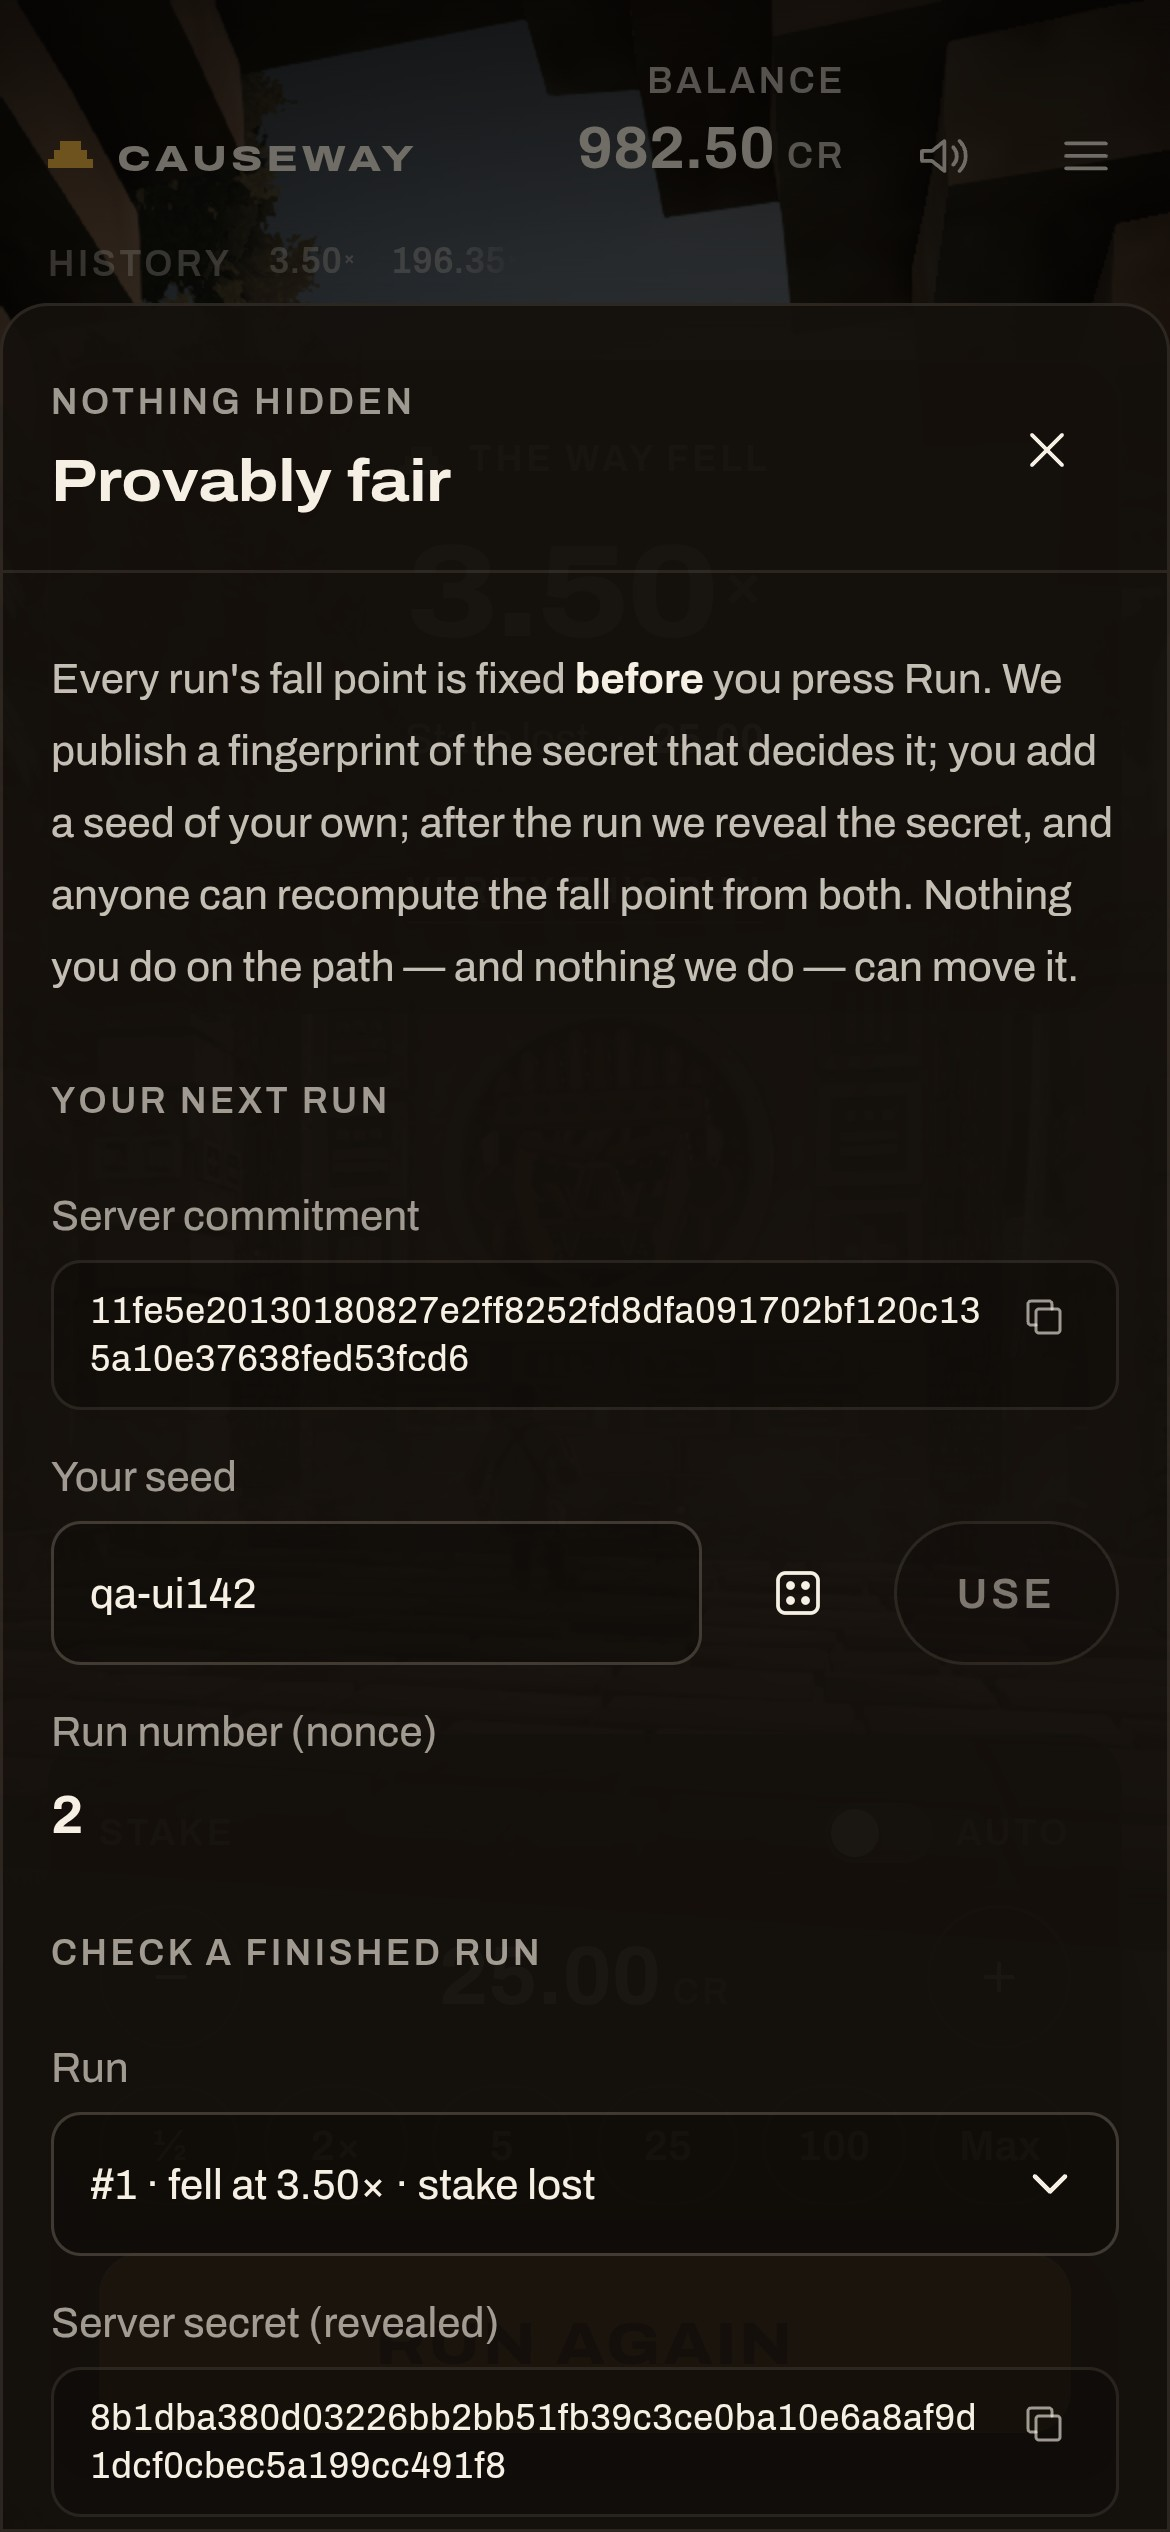
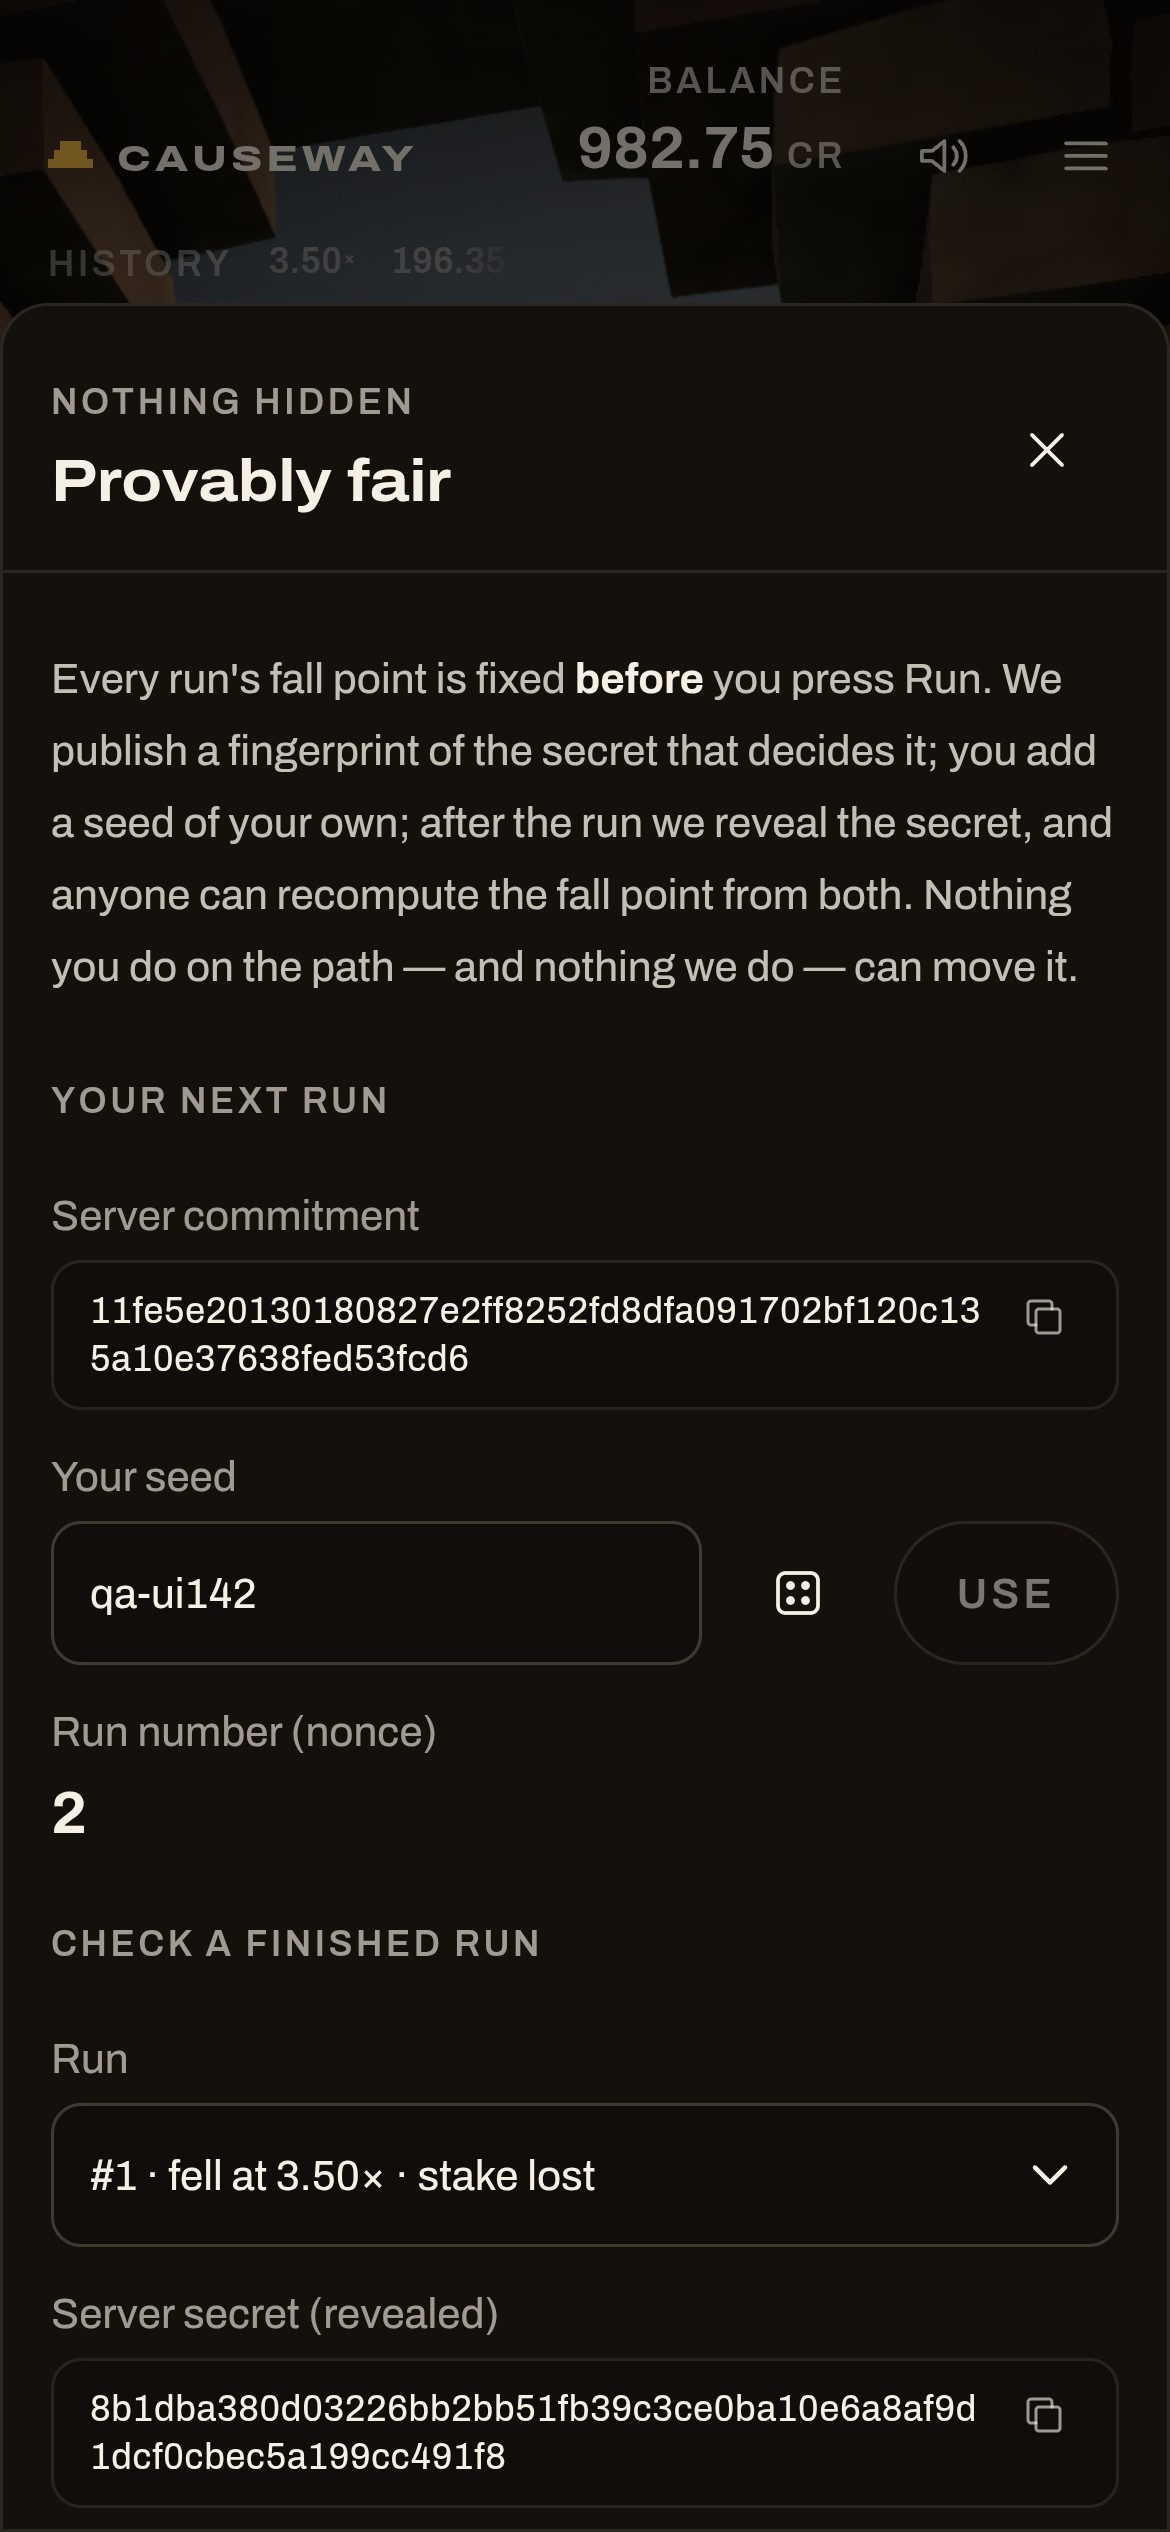
fix(ui): history money column is the signed profit; modal sheets fully opaque
History: the money column is the signed profit (+7.50 / −25.00), amber only when positive, under a
'Profit' header; the return moves to the description ('Cashed out at 1.30× · return 32.50'). The
run picker, verifier and toasts carry no cash-out amount. Modal sheets are solid warm near-black on
every tier; the page behind dims to 55 % (blurred on High/Ultra only). Re-shot p390 settings, fair
and history.

Claude-Session: https://claude.ai/code/session_013hVqKQyyDWxASYydmQotRx

diff --git a/src/ui/styles.css b/src/ui/styles.css
@@ -416,7 +416,7 @@ kbd { font-family: var(--f); font-size: var(--t12); line-height: 16px; font-weig
    solid warm near-black on every tier, so nothing behind it ghosts through */
 .veil { position: fixed; inset: 0; display: grid; place-items: center; padding: 24px; background: rgba(8, 6, 4, 0.55); pointer-events: auto; animation: fadein 0.2s; }
 :root[data-quality='high'] .veil, :root[data-quality='ultra'] .veil { -webkit-backdrop-filter: blur(10px); backdrop-filter: blur(10px); }
-.veil .sheet { background: rgba(20, 16, 12, 0.97); }
+.veil .sheet { background: #14100c; }
 .sheet { position: relative; width: min(560px, 100%); max-height: min(84vh, 760px); display: flex; flex-direction: column; overflow: hidden; animation: sheetIn 0.22s var(--ease); }
 .sheet.wide { width: min(720px, 100%); }
 .sheet:focus { outline: none; }
